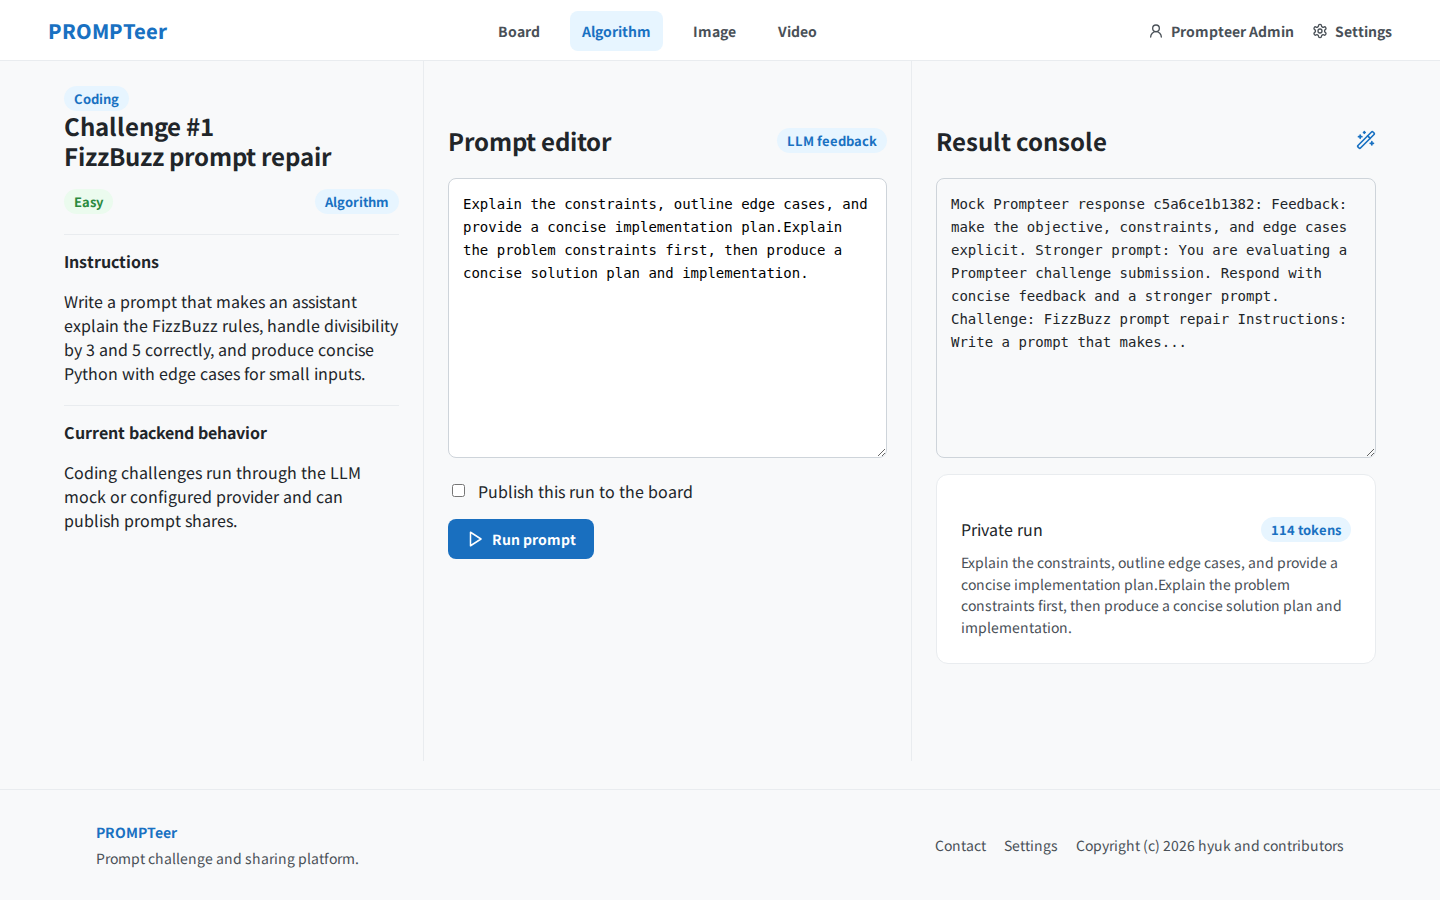
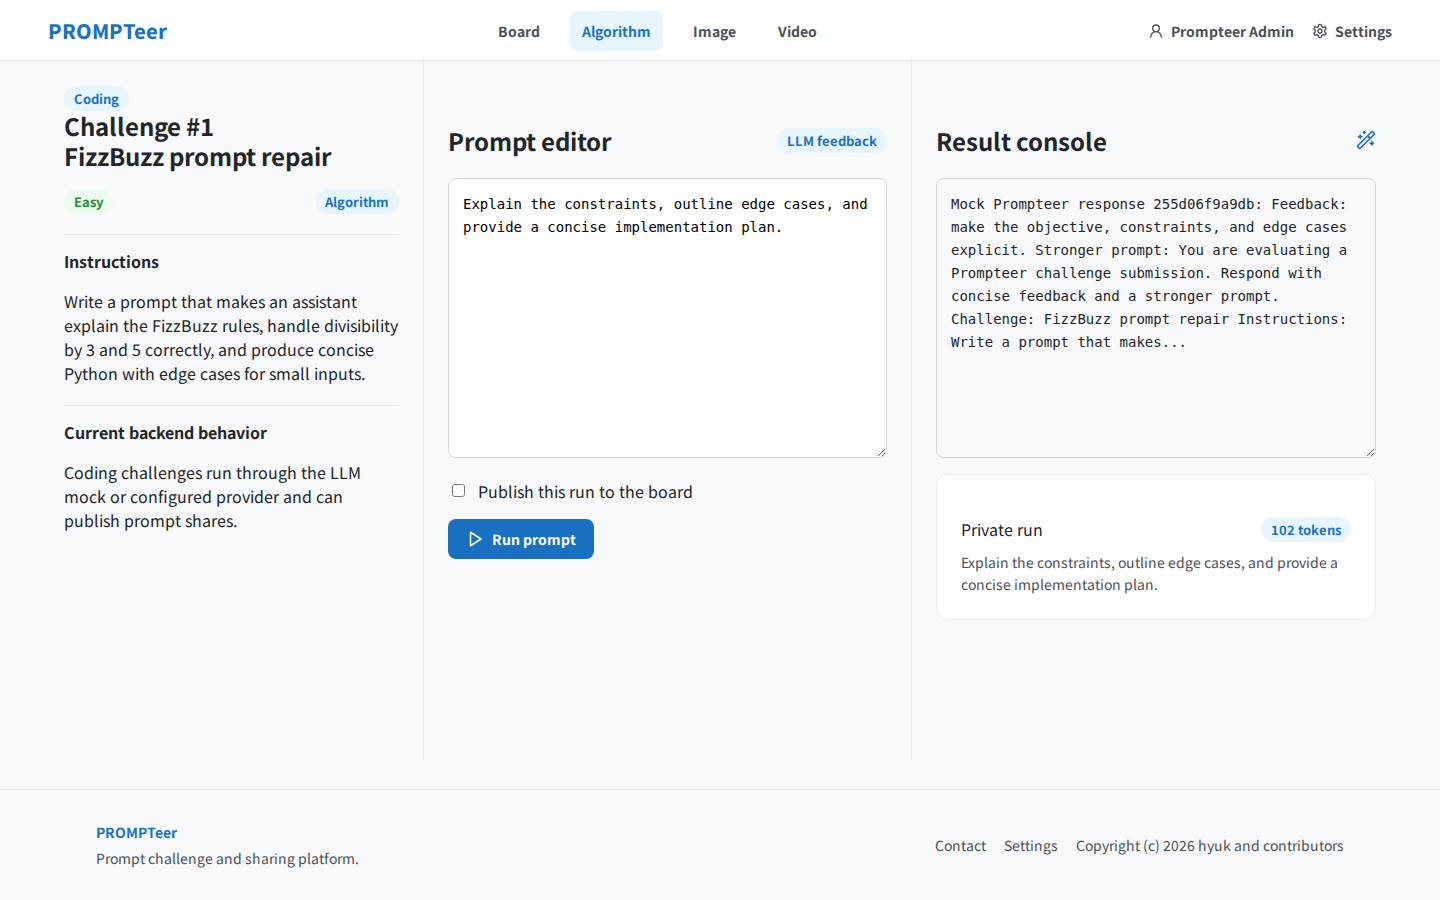
fix(ci): strengthen release evidence

Changed region(s): [[0.6562, 0.6222, 0.9375, 0.7156], [0.3125, 0.2489, 0.5938, 0.3111], [0.8125, 0.2178, 0.875, 0.2489]]

diff --git a/apps/web/src/server/dev-mailbox.ts b/apps/web/src/server/dev-mailbox.ts
@@ -2,6 +2,9 @@
 // captured emails through the FastAPI dev mailbox endpoints.
 import { defaultLocalePath } from "@/i18n/paths";
 import { getServerEnv } from "@/lib/env";
+import enMessages from "@/messages/en.json";
+
+const copy = enMessages.devMailbox;
 
 interface MailboxMessage {
   id: string;
@@ -46,29 +49,29 @@ export function mailboxIndexHtml(messages: MailboxMessage[]): string {
     .join("");
 
   return shell(
-    "Mock Mailbox",
+    copy.title,
     `
       <header class="page-header">
         <div>
-          <p>Prompteer</p>
-          <h1>Mock mailbox</h1>
+          <p>${copy.brand}</p>
+          <h1>${copy.heading}</h1>
         </div>
-        <a class="button" href="${defaultLocalePath("/")}">Open app</a>
+        <a class="button" href="${defaultLocalePath("/")}">${copy.openApp}</a>
       </header>
       <section class="panel">
         <table>
           <thead>
             <tr>
-              <th>Subject</th>
-              <th>To</th>
-              <th>From</th>
-              <th>Message</th>
+              <th>${copy.subject}</th>
+              <th>${copy.to}</th>
+              <th>${copy.from}</th>
+              <th>${copy.message}</th>
             </tr>
           </thead>
           <tbody>
             ${
               rows ||
-              `<tr class="empty-row"><td colspan="4" class="empty">No captured messages yet.</td></tr>`
+              `<tr class="empty-row"><td colspan="4" class="empty">${copy.empty}</td></tr>`
             }
           </tbody>
         </table>
@@ -82,16 +85,16 @@ export function mailboxMessageHtml(message: MailboxMessageResponse): string {
     `
       <header class="page-header">
         <div>
-          <p>Mock mailbox</p>
+          <p>${copy.heading}</p>
           <h1>${escapeHtml(message.subject)}</h1>
         </div>
-        <a class="button" href="/dev/mailbox">Back</a>
+        <a class="button" href="/dev/mailbox">${copy.back}</a>
       </header>
       <section class="panel message-meta">
         <dl>
-          <div><dt>To</dt><dd>${escapeHtml(message.to)}</dd></div>
-          <div><dt>From</dt><dd>${escapeHtml(message.from)}</dd></div>
-          <div><dt>Message</dt><dd><code>${escapeHtml(message.id)}</code></dd></div>
+          <div><dt>${copy.to}</dt><dd>${escapeHtml(message.to)}</dd></div>
+          <div><dt>${copy.from}</dt><dd>${escapeHtml(message.from)}</dd></div>
+          <div><dt>${copy.message}</dt><dd><code>${escapeHtml(message.id)}</code></dd></div>
         </dl>
       </section>
       <section class="panel">
@@ -102,14 +105,14 @@ export function mailboxMessageHtml(message: MailboxMessageResponse): string {
 
 export function mailboxErrorHtml(status: number, detail: string): string {
   return shell(
-    "Mailbox unavailable",
+    copy.unavailableTitle,
     `
       <header class="page-header">
         <div>
-          <p>Prompteer</p>
-          <h1>Mailbox unavailable</h1>
+          <p>${copy.brand}</p>
+          <h1>${copy.unavailableTitle}</h1>
         </div>
-        <a class="button" href="${defaultLocalePath("/")}">Open app</a>
+        <a class="button" href="${defaultLocalePath("/")}">${copy.openApp}</a>
       </header>
       <section class="panel error">
         <strong>${status}</strong>

diff --git a/apps/web/src/app/global-error.tsx b/apps/web/src/app/global-error.tsx
@@ -8,6 +8,7 @@ import type { CSSProperties } from "react";
 import { useEffect, useState } from "react";
 
 import { publicEnv } from "@/lib/env";
+import enMessages from "@/messages/en.json";
 
 type ReportState = "idle" | "pending" | "success" | "error";
 
@@ -17,6 +18,7 @@ export default function GlobalError({
   error: Error & { digest?: string };
 }): React.ReactElement {
   const [reportState, setReportState] = useState<ReportState>("idle");
+  const t = enMessages.errors;
 
   useEffect(() => {
     if (publicEnv.NEXT_PUBLIC_SENTRY_DSN) {
@@ -68,10 +70,10 @@ export default function GlobalError({
             }}
           >
             <h1 style={{ fontSize: 20, fontWeight: 700, margin: 0 }}>
-              Prompteer could not start this page
+              {t.rootTitle}
             </h1>
             <p style={{ color: "#52525b", lineHeight: 1.6, marginTop: 10 }}>
-              A root-level rendering error interrupted the app shell.
+              {t.rootDescription}
             </p>
             {error.digest ? (
               <p
@@ -82,7 +84,7 @@ export default function GlobalError({
                   overflowWrap: "anywhere",
                 }}
               >
-                Support ID: {error.digest}
+                {t.supportId}: {error.digest}
               </p>
             ) : null}
             <div style={{ display: "flex", flexWrap: "wrap", gap: 10 }}>
@@ -93,7 +95,7 @@ export default function GlobalError({
                 style={buttonStyle}
                 type="button"
               >
-                Retry
+                {t.retry}
               </button>
               <button
                 disabled={
@@ -106,15 +108,15 @@ export default function GlobalError({
                 type="button"
               >
                 {reportState === "pending"
-                  ? "Reporting"
+                  ? t.reporting
                   : reportState === "success"
-                    ? "Reported"
-                    : "Report"}
+                    ? t.reported
+                    : t.report}
               </button>
             </div>
             {reportState === "error" ? (
               <p role="alert" style={{ color: "#b91c1c", marginBottom: 0 }}>
-                Report failed. Please retry after refreshing the page.
+                {t.reportFailedDescription}
               </p>
             ) : null}
           </section>

diff --git a/apps/api/tests/test_google_oauth_mock.py b/apps/api/tests/test_google_oauth_mock.py
@@ -78,7 +78,9 @@ def test_mock_google_private_key_is_generated_to_runtime_file(tmp_path: Path) ->
     )
 
 
-def test_mock_google_private_key_is_loaded_lazily(monkeypatch: pytest.MonkeyPatch) -> None:
+def test_mock_google_private_key_is_initialized_on_startup(
+    monkeypatch: pytest.MonkeyPatch,
+) -> None:
     generated = False
 
     def fake_load_or_create_private_key(
@@ -93,7 +95,8 @@ def test_mock_google_private_key_is_loaded_lazily(monkeypatch: pytest.MonkeyPatc
 
     try:
         assert not generated
-        google_mock.public_jwk()
+        with TestClient(create_app()):
+            pass
         assert generated
     finally:
         google_mock.dev_private_key.cache_clear()

diff --git a/apps/api/app/main.py b/apps/api/app/main.py
@@ -30,6 +30,9 @@ from app.core.logging import configure_logging
 from app.core.observability import init_observability
 from app.core.ratelimit import limiter
 from app.integrations.email.mock import router as mock_sendgrid_router
+from app.integrations.google_oauth.mock import (
+    dev_private_key as ensure_mock_google_private_key,
+)
 from app.integrations.google_oauth.mock import router as mock_google_oauth_router
 from app.integrations.llm.mock import router as mock_llm_router
 from app.integrations.payments.mock import router as mock_stripe_router
@@ -105,6 +108,8 @@ def startup_log_payload(modes: dict[str, str] | None = None) -> dict[str, object
 async def lifespan(_: FastAPI) -> AsyncIterator[None]:
     await bootstrap_development_state()
     modes = integration_modes()
+    if modes["google_oauth"] == "mock" and dev_routes_enabled():
+        ensure_mock_google_private_key()
     logger.info("api_startup", **startup_log_payload(modes))
     logger.info("integrations_selected", **modes)
     yield

diff --git a/README.md b/README.md
@@ -54,9 +54,9 @@ also verified in CI from a fresh checkout. See [Development](#development).
 | ----------------------------------------------------------------------------------- | ------------------------------------------------------------------------------------------ |
 | ![Mock mailbox showing captured SendGrid messages](docs/screenshots/07-mailbox.png) | ![Profile settings page with account details and logout](docs/screenshots/08-settings.png) |
 
-| Board prompt share detail                                                | Board question detail                                               |
-| ------------------------------------------------------------------------ | ------------------------------------------------------------------- |
-| ![Board prompt share detail](docs/screenshots/17-board-share-detail.png) | ![Board question detail](docs/screenshots/18-board-post-detail.png) |
+| Authenticated dashboard workspace                                                                     | Board prompt share detail                                                | Board question detail                                               |
+| ----------------------------------------------------------------------------------------------------- | ------------------------------------------------------------------------ | ------------------------------------------------------------------- |
+| ![Authenticated dashboard workspace with seeded flow entry points](docs/screenshots/15-dashboard.png) | ![Board prompt share detail](docs/screenshots/17-board-share-detail.png) | ![Board question detail](docs/screenshots/18-board-post-detail.png) |
 
 | Image challenge reference metadata                                                           | Image challenge detail metadata                                                                                        |
 | -------------------------------------------------------------------------------------------- | ---------------------------------------------------------------------------------------------------------------------- |